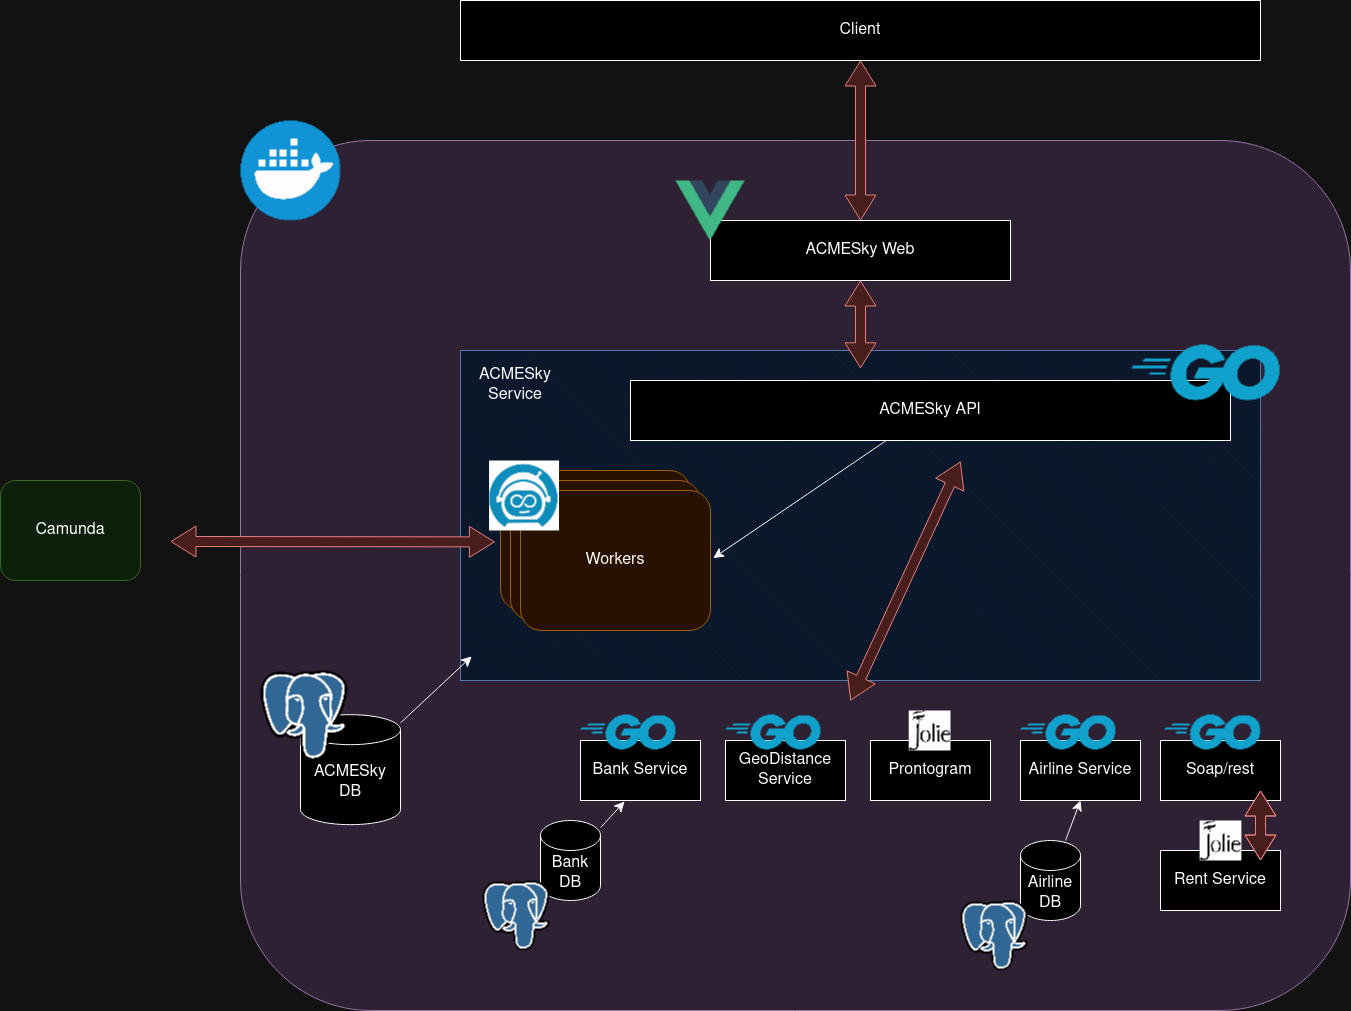
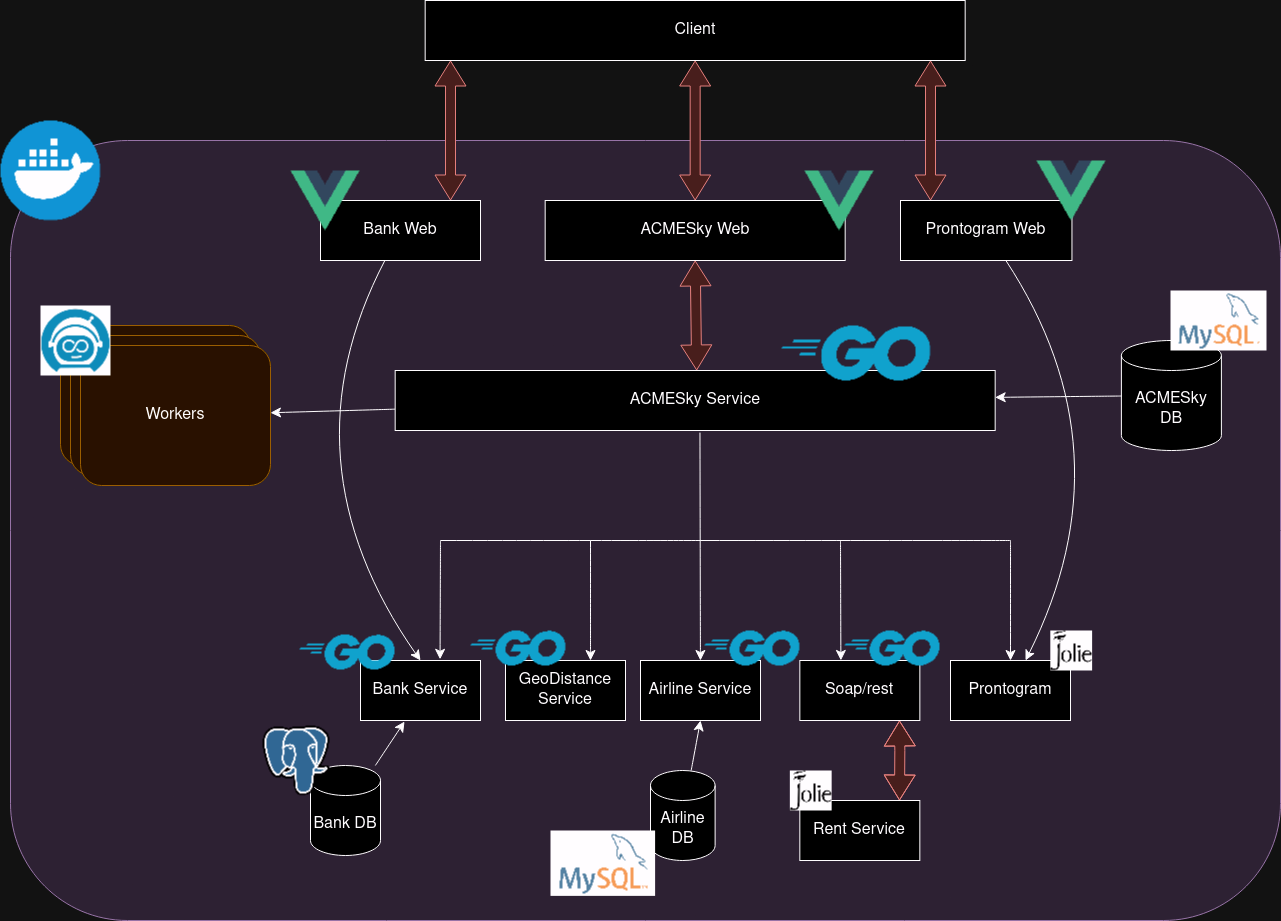
soa updated

diff --git a/docs/soa_schema.md b/docs/soa_schema.md
@@ -4,25 +4,22 @@ Here is the interal schema of the services:
 
 ![draw.io soa schema](assets/soa.png "SOA Structure")
 
-> TODO: verificare e modificare!
-
 ## Port assigned to each service
 
-> TODO: verificare e modificare!
-
-| Service              | Port |
-| -------------------- | ---- |
-| ACMESkyWeb           | 8080 |
-| ACMESkyService       | 8090 |
-| ACMESkyDB            | 3306 |
-| ACMESkyNCC           |      |
-| BankWeb              | 8083 |
-| BankSerivice         | 8083 |
-| BankDb               | 3308 |
-| FlightCompanyService | 8091 |
-| FlightCompanyDB      | 3307 |
-| GeoDistance          | 8093 |
-| ProntogramWeb        | 8079 |
-| ProntogramService    | 8092 |
-| Operate              | 8081 |
-| Tasklist             | 8082 |
+| Service              | Port                          |
+| -------------------- | ----------------------------- |
+| ACMESkyWeb           | (8078)[http://localhost:8078] |
+| ACMESkyService       | (8090)[http://localhost:8090] |
+| ACMESkyDB            | (3306)[http://localhost:3306] |
+| ACMESkyNCC           | (8089)[http://localhost:8089] |
+| BankWeb              | (8083)[http://localhost:8083] |
+| BankSerivice         | (8094)[http://localhost:8094] |
+| BankDb               | (3308)[http://localhost:3308] |
+| FlightCompanyService | (8091)[http://localhost:8091] |
+| FlightCompanyDB      | (3307)[http://localhost:3307] |
+| GeoDistance          | (8093)[http://localhost:8093] |
+| ProntogramWeb        | (8079)[http://localhost:8079] |
+| ProntogramService    | (8092)[http://localhost:8092] |
+| Operate              | (8092)[http://localhost:8092] |
+| Tasklist             | (8082)[http://localhost:8082] |
+| Workers              | (8080)[http://localhost:8080] |

diff --git a/docs/index.md b/docs/index.md
@@ -30,15 +30,15 @@ In this case, ACMESky uses various chauffeur rental companies with which it has 
 
 This is the structure of the project's folder.
 
-    docs/               # Documentation contents
-    docker-compose/     # All docker compose files
-    src/                # All microservices codebase
+    docs/                           # Documentation contents
+    src/                            # All microservices codebase
     resources/
-        uml/            # UML source files
-        bpmn/           # BPMN source files
-        bpmn-chors/     # BPMN Choreography source files
-    requirements.txt    # Documentation requirements
-    mkdocs.yml          # Documentation config file
+        uml/                        # UML source files
+        bpmn/                       # BPMN source files
+        bpmn-chors/                 # BPMN Choreography source files
+    docker-compose-[service].yaml   # All docker compose files
+    requirements.txt                # Documentation requirements
+    mkdocs.yml                      # Documentation config file
 
 ## Deploy using Docker compose
 
@@ -63,18 +63,6 @@ docker-compose \
     -f docker-compose-Bank.yaml \
     up -d
 ```
-
-- Camunda
-  - [Operate](http://localhost:8081)
-  - [Tasklist](http://localhost:8082)
-- ACMESky
-  - [Frontend](http://localhost:8080)
-  - [API](http://localhost:8090)
-- FlightCompany
-  - [API](http://localhost:8091)
-- Prontogram
-  - [Frontend](http://localhost:8079)
-  - [API](http://localhost:8092)
 
 ## Docs
 

diff --git a/README.md b/README.md
@@ -26,18 +26,6 @@ docker-compose \
     up -d
 ```
 
-- Camunda
-  - [Operate](http://localhost:8081)
-  - [Tasklist](http://localhost:8082)
-- ACMESky
-  - [Frontend](http://localhost:8080)
-  - [API](http://localhost:8090)
-- FlightCompany
-  - [API](http://localhost:8091)
-- Prontogram
-  - [Frontend](http://localhost:8079)
-  - [API](http://localhost:8092)
-
 ## Docs
 
 The documentation is generated with [Material for MkDocs](https://squidfunk.github.io/mkdocs-material/).
